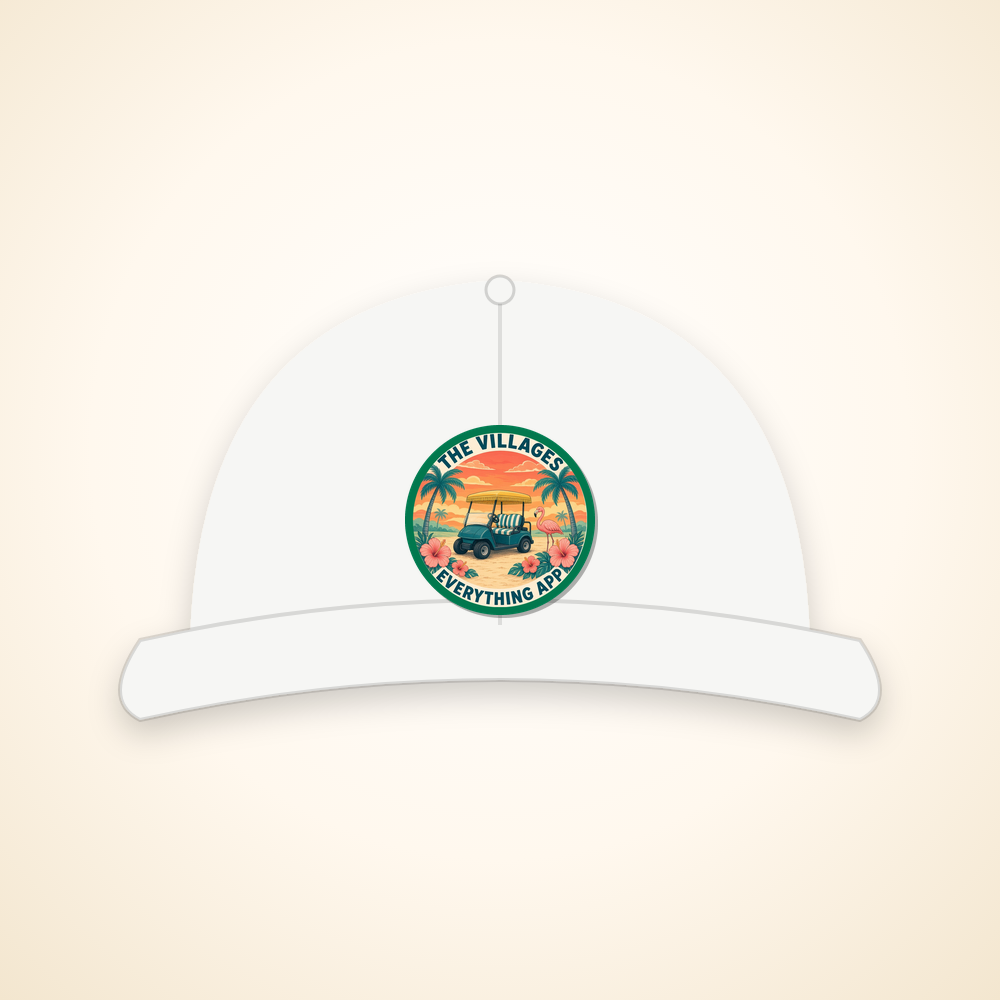
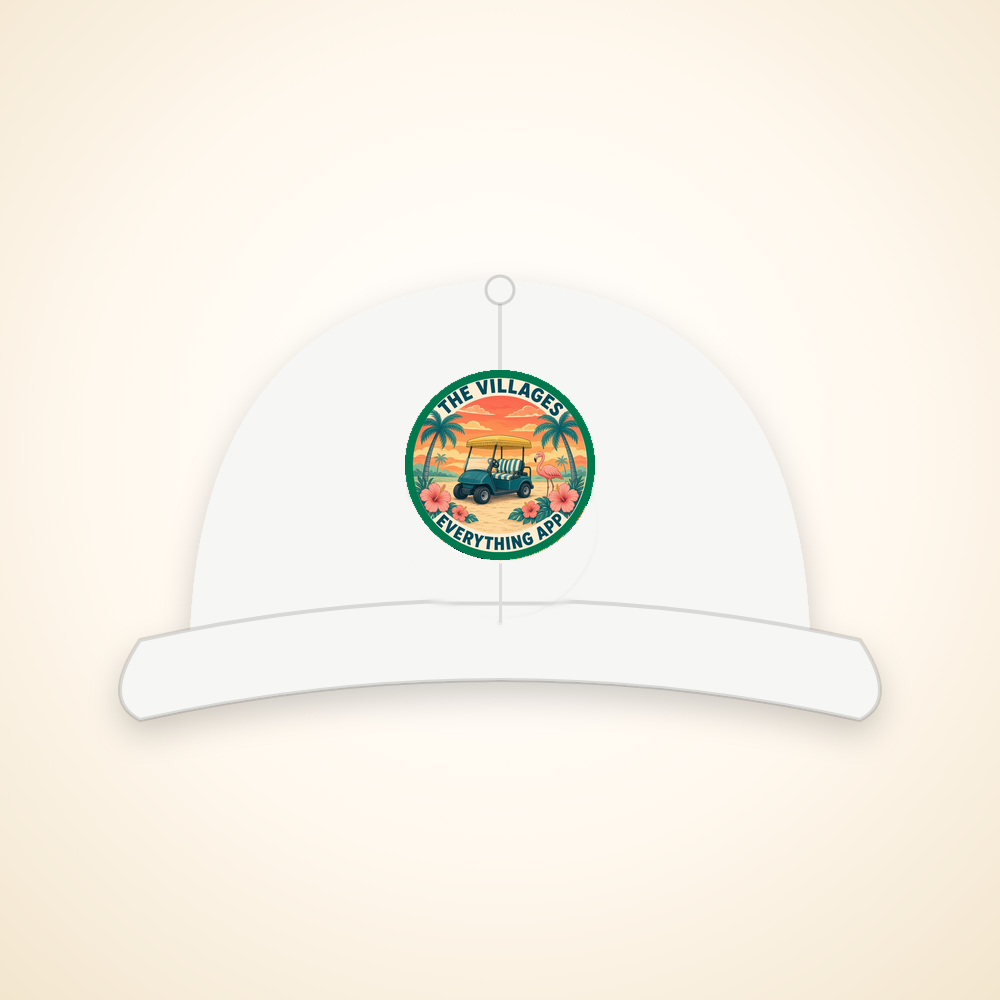
Hats: Golden Hour Patch and Town Square Cruiser — raise front patch (v4), wordmark-only backs

Changed region(s): [[0.403, 0.372, 0.62, 0.62]]

diff --git a/src/lib/shop/catalog.ts b/src/lib/shop/catalog.ts
@@ -260,7 +260,7 @@ export const PRODUCTS: Product[] = [
     name: "Golden Hour Patch",
     tagline: "Embroidered dad hat",
     description:
-      "The app's sunset golf-cart badge, flamingo and all, stitched as a round patch with a gold ring on a relaxed cotton dad hat. On the back: a little striped sunset and palm above The Villages Everything App wordmark.",
+      "The app's sunset golf-cart badge, flamingo and all, stitched as a round patch with a gold ring on a relaxed cotton dad hat. On the back: The Villages Everything App wordmark above the strap.",
     priceCents: 3000,
     image: "/shop/mock/hat-golden-hour-patch--khaki.png",
     colors: [
@@ -280,7 +280,7 @@ export const PRODUCTS: Product[] = [
     ],
     options: [
       { id: "thread_colors", value: ["#01784E", "#E25C27", "#FFFFFF", "#7BA35A", "#FFCC00", "#000000"] },
-      { id: "thread_colors_back", value: ["#000000", "#E25C27", "#01784E", "#FFCC00"] },
+      { id: "thread_colors_back", value: ["#000000", "#E25C27"] },
     ],
     taxCode: CLOTHING,
   },
@@ -290,7 +290,7 @@ export const PRODUCTS: Product[] = [
     name: "Town Square Cruiser",
     tagline: "Embroidered dad hat",
     description:
-      "The app's sunset golf-cart badge stitched as a round patch with a palm-green ring on a relaxed cotton dad hat. On the back: a golden sun, a palm and a blue waterline above The Villages Everything App wordmark.",
+      "The app's sunset golf-cart badge stitched as a round patch with a palm-green ring on a relaxed cotton dad hat. On the back: The Villages Everything App wordmark above the strap.",
     priceCents: 3000,
     image: "/shop/mock/hat-town-square-cruiser--khaki.png",
     colors: [
@@ -310,7 +310,7 @@ export const PRODUCTS: Product[] = [
     ],
     options: [
       { id: "thread_colors", value: ["#01784E", "#E25C27", "#FFFFFF", "#7BA35A", "#FFCC00", "#000000"] },
-      { id: "thread_colors_back", value: ["#000000", "#E25C27", "#01784E", "#FFCC00", "#3399FF"] },
+      { id: "thread_colors_back", value: ["#000000", "#E25C27"] },
     ],
     taxCode: CLOTHING,
   },
